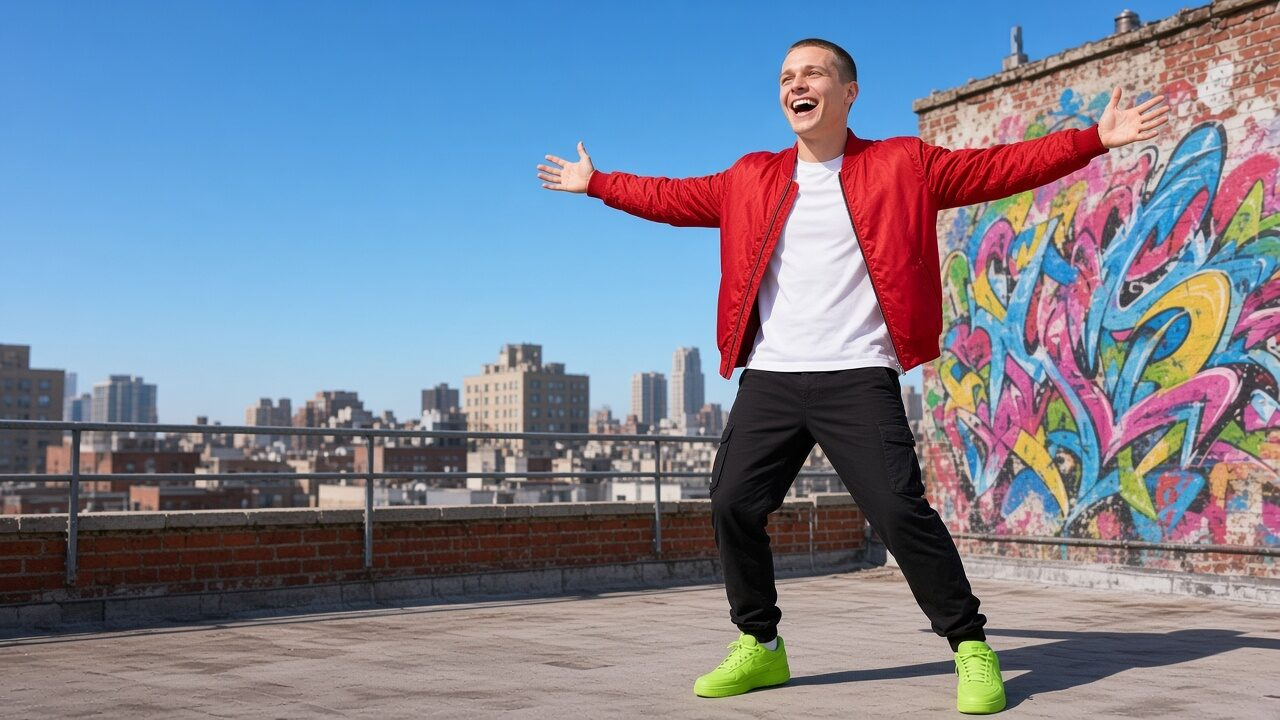
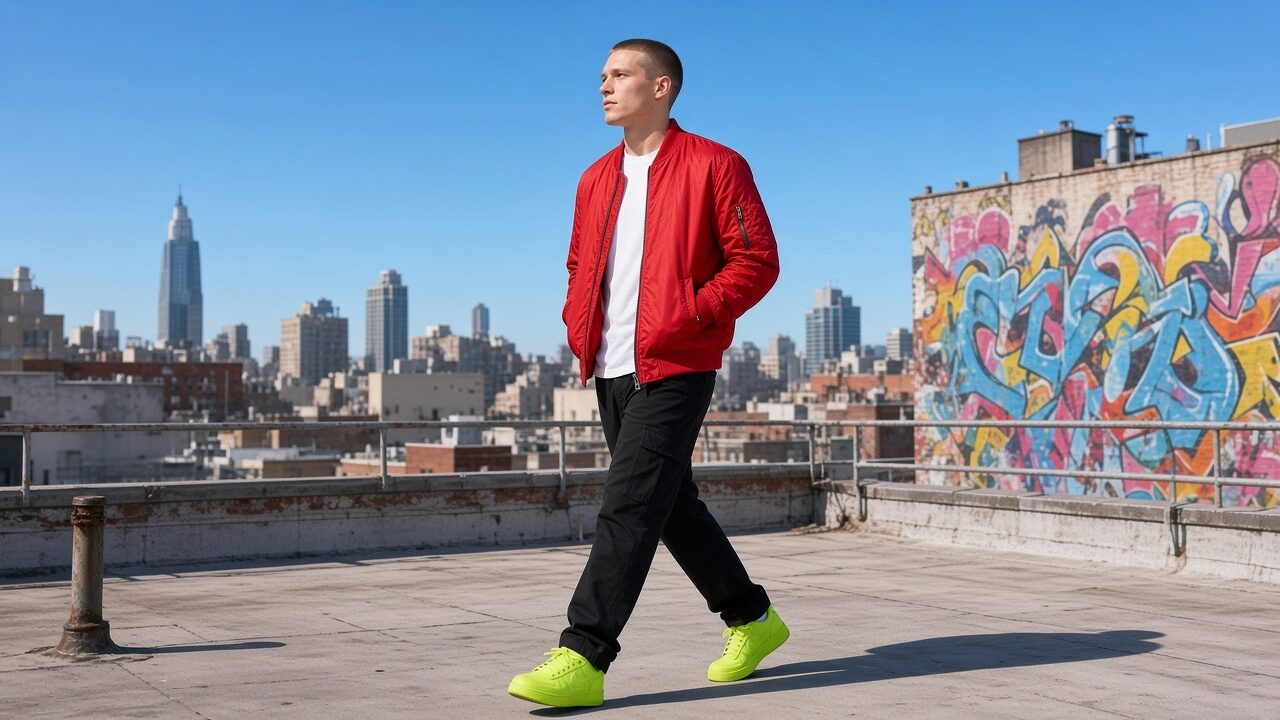
Natural expressions for Asa v2 photos; replace roller rink with laundromat (#7)

diff --git a/src/content/site-data.ts b/src/content/site-data.ts
@@ -93,14 +93,14 @@ export function liveStreamingLinks() {
 }
 
 export const tracks = [
-  { number: 1, title: "Dust and Breath", image: "/images/asa-v2-01-dust-and-breath-garden-mural.jpg", imageAlt: "Asa Cole laughing with arms open in front of a bright garden mural with clouds of color", note: "Debut single, coming soon" },
-  { number: 2, title: "Hither Road", image: "/images/asa-v2-02-hither-road-convertible.jpg", imageAlt: "Asa Cole pointing ahead from a red vintage convertible in a tropical shirt" },
-  { number: 3, title: "Pigpen Prayer", image: "/images/asa-v2-03-pigpen-prayer-pink-suit.jpg", imageAlt: "Asa Cole in a pink suit hugging an inflatable pig" },
-  { number: 4, title: "Wrong Boat", image: "/images/asa-v2-04-wrong-boat-swan-whale.jpg", imageAlt: "Asa Cole in a yellow raincoat on a swan boat with a giant inflatable whale behind him" },
+  { number: 1, title: "Dust and Breath", image: "/images/asa-v2-01-dust-and-breath-garden-mural.jpg", imageAlt: "Asa Cole with eyes closed and arms open in front of a bright garden mural with clouds of color", note: "Debut single, coming soon" },
+  { number: 2, title: "Hither Road", image: "/images/asa-v2-02-hither-road-convertible.jpg", imageAlt: "Asa Cole driving a red vintage convertible in a tropical shirt" },
+  { number: 3, title: "Pigpen Prayer", image: "/images/asa-v2-03-pigpen-prayer-pink-suit.jpg", imageAlt: "Asa Cole in a pink suit sitting on a curb beside a pig statue" },
+  { number: 4, title: "Wrong Boat", image: "/images/asa-v2-04-wrong-boat-swan-whale.jpg", imageAlt: "Asa Cole in a yellow raincoat on a swan boat, side-eyeing a giant inflatable whale" },
   { number: 5, title: "Rooster Crow", image: "/images/asa-v2-05-rooster-crow-sunrise-rooftop.jpg", imageAlt: "Asa Cole in a rooster print shirt holding an alarm clock at sunrise" },
   { number: 6, title: "Bronze Serpent", image: "/images/asa-v2-06-bronze-serpent-neon-sign.jpg", imageAlt: "Asa Cole looking up at a glowing bronze serpent sign" },
-  { number: 7, title: "Jordan Water", image: "/images/asa-v2-07-jordan-water-fountain.jpg", imageAlt: "Asa Cole running and laughing through a city fountain" },
-  { number: 8, title: "Gravel and Glory", image: "/images/asa-v2-08-gravel-and-glory-gold-sequins.jpg", imageAlt: "Asa Cole strutting in a gold sequin jacket through falling gold streamers" },
+  { number: 7, title: "Jordan Water", image: "/images/asa-v2-07-jordan-water-fountain.jpg", imageAlt: "Asa Cole laughing as he leaps through a city fountain" },
+  { number: 8, title: "Gravel and Glory", image: "/images/asa-v2-08-gravel-and-glory-gold-sequins.jpg", imageAlt: "Asa Cole walking a backstage hall of gold streamers in a gold sequin jacket" },
 ] as const;
 
 export const facts = [
@@ -228,10 +228,10 @@ export function getStructuredData() {
 }
 
 export const gallery = [
-  { src: "/images/asa-v2-headshot-square.jpg", alt: "Asa Cole laughing in a blue and orange jacket against a pink and yellow mural" },
-  { src: "/images/asa-v2-neon-diner-portrait.jpg", alt: "Asa Cole laughing in a neon diner booth with a milkshake" },
-  { src: "/images/asa-v2-roller-rink-portrait.jpg", alt: "Asa Cole roller skating in a rainbow jacket under a disco ball" },
-  { src: "/images/asa-v2-about-record-shop-portrait.jpg", alt: "Asa Cole holding up a vinyl record in a record shop" },
+  { src: "/images/asa-v2-headshot-square.jpg", alt: "Asa Cole smiling in a blue and orange jacket against a pink and yellow mural" },
+  { src: "/images/asa-v2-neon-diner-portrait.jpg", alt: "Asa Cole talking in a neon diner booth with a milkshake" },
+  { src: "/images/asa-v2-laundromat-portrait.jpg", alt: "Asa Cole reading on a dryer in a pink and mint laundromat" },
+  { src: "/images/asa-v2-about-record-shop-portrait.jpg", alt: "Asa Cole flipping through vinyl in a record shop" },
   { src: "/images/asa-v2-06-bronze-serpent-neon-sign.jpg", alt: "Asa Cole under a glowing serpent sign at dusk" },
-  { src: "/images/asa-v2-07-jordan-water-fountain.jpg", alt: "Asa Cole running through a city fountain" },
+  { src: "/images/asa-v2-07-jordan-water-fountain.jpg", alt: "Asa Cole leaping through a city fountain" },
 ] as const;

diff --git a/src/app/page.tsx b/src/app/page.tsx
@@ -94,7 +94,7 @@ function Hero() {
       <div className="hero-photo">
         <Image
           src="/images/asa-v2-hero-rooftop-wide.jpg"
-          alt="Asa Cole laughing with arms wide on a sunny rooftop in a red bomber jacket and lime sneakers"
+          alt="Asa Cole walking across a sunny rooftop in a red bomber jacket and lime sneakers"
           fill
           priority
           sizes="(min-width: 900px) 60vw, 100vw"
@@ -152,7 +152,7 @@ function About() {
       <div className="about-headshot tilt-right">
         <Image
           src="/images/asa-v2-headshot-square.jpg"
-          alt="Asa Cole headshot, laughing in a blue and orange jacket against a pink and yellow mural"
+          alt="Asa Cole headshot, smiling in a blue and orange jacket against a pink and yellow mural"
           fill
           sizes="220px"
           className="cover"
@@ -196,7 +196,7 @@ function Stage() {
     <div className="stage">
       <Image
         src="/images/asa-v2-banner-confetti-stage-wide.jpg"
-        alt="Asa Cole singing in a magenta sequin suit as rainbow confetti falls on stage"
+        alt="Asa Cole singing in a magenta sequin suit as colorful confetti falls on stage"
         fill
         sizes="100vw"
         className="cover"

diff --git a/src/app/layout.tsx b/src/app/layout.tsx
@@ -51,7 +51,7 @@ export const metadata: Metadata = {
         url: "/asa-cole-og.jpg",
         width: 1200,
         height: 630,
-        alt: "Asa Cole laughing with arms wide on a sunny rooftop in a red bomber jacket",
+        alt: "Asa Cole walking across a sunny rooftop in a red bomber jacket",
       },
     ],
   },
